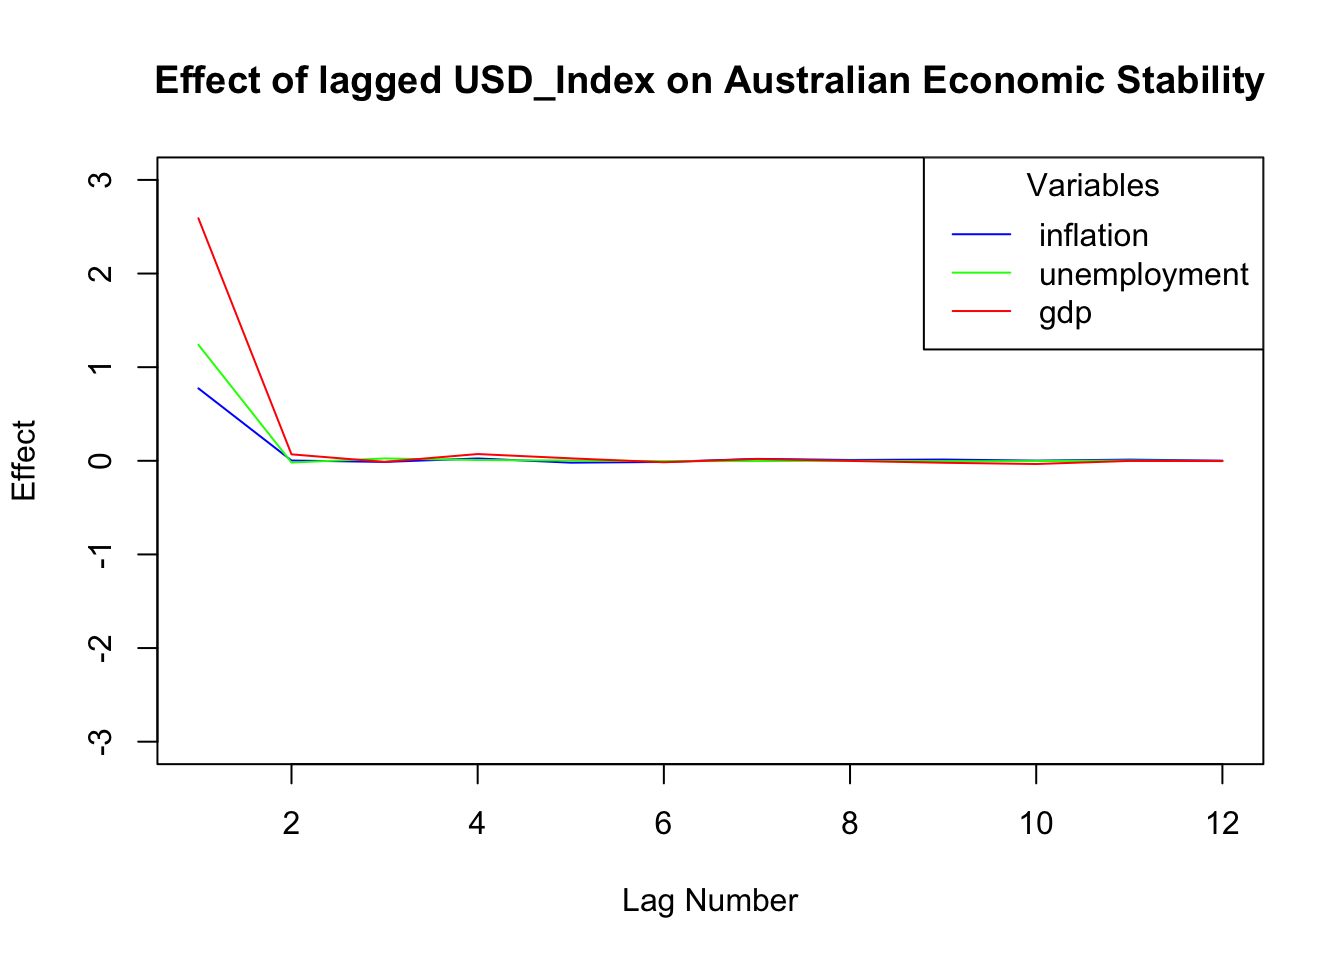
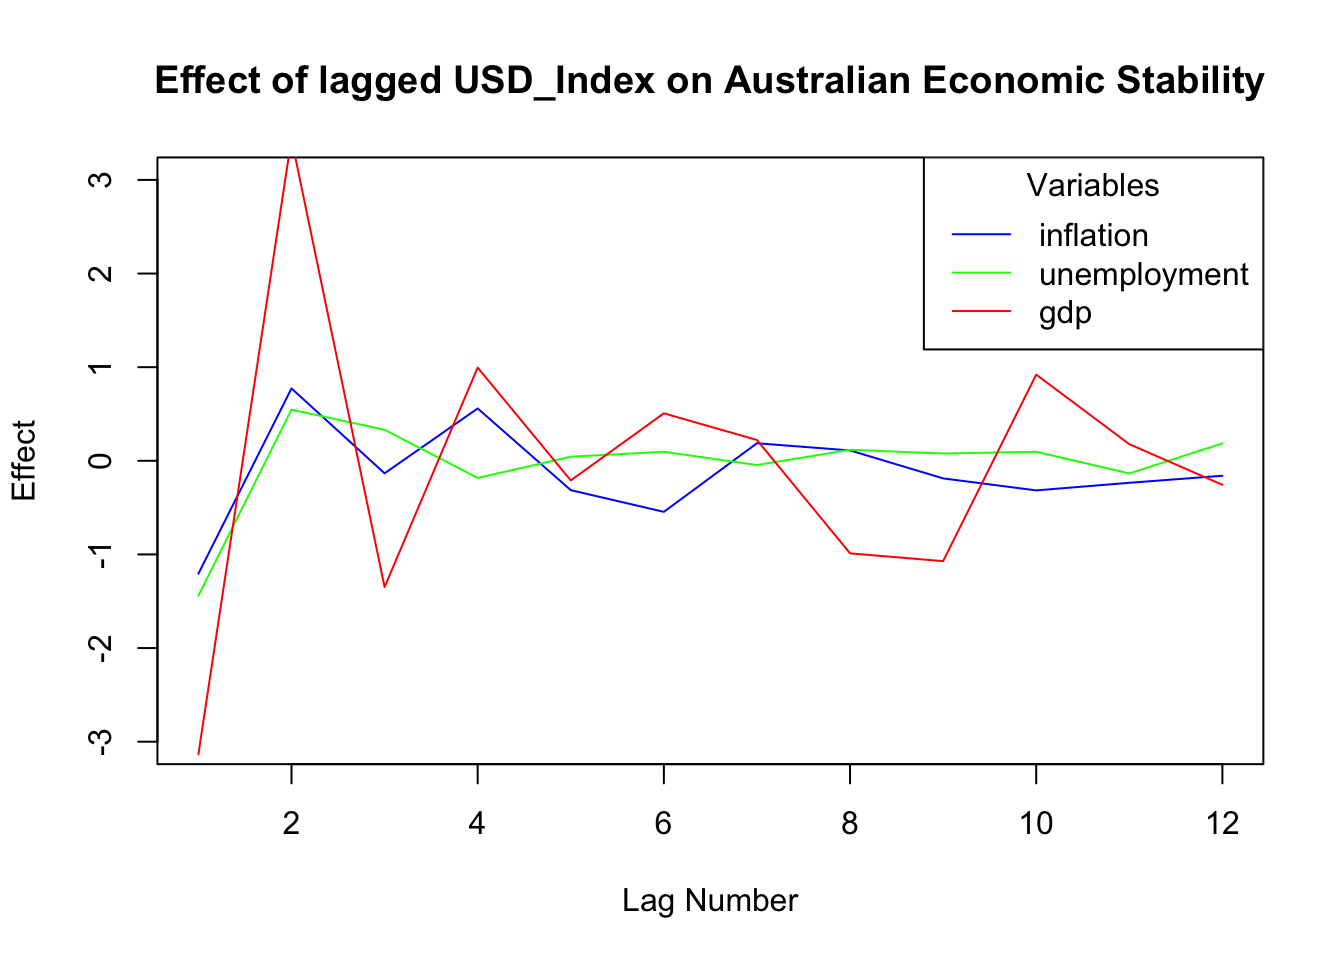
Further tweaking to RP2

diff --git a/docs/index.html b/docs/index.html
@@ -824,66 +824,66 @@ p(B^+; B_0 \mid Y; X) \propto p(Y \mid X, B^+, B_0) \times p(B^+; B_0)
 <pre><code>[1] "Extended Model Normalized B0 matrix"</code></pre>
 </div>
 <div class="cell-output cell-output-stdout">
-<pre><code>          [,1]         [,2]     [,3]      [,4]
-[1,] 21.931153  0.000000000 0.000000 0.0000000
-[2,]  0.789457  0.974975827 0.000000 0.0000000
-[3,]  3.809506 -0.005921796 3.100595 0.0000000
-[4,] -2.045686  0.179581024 1.358565 0.7634032</code></pre>
+<pre><code>           [,1]        [,2]       [,3]       [,4]
+[1,] 0.47116088 0.000000000 0.00000000 0.00000000
+[2,] 0.01574179 0.022948591 0.00000000 0.00000000
+[3,] 0.07882986 0.001615351 0.08040650 0.00000000
+[4,] 0.02414596 0.002995241 0.02535624 0.02168831</code></pre>
 </div>
 <div class="cell-output cell-output-stdout">
 <pre><code>[1] "Extended Model B plus matrix"</code></pre>
 </div>
 <div class="cell-output cell-output-stdout">
-<pre><code>           [,1]       [,2]        [,3]        [,4]        [,5]         [,6]
-[1,]  0.5545201 21.9783630  0.01707903 -0.05016267 -0.10330233 -0.046527088
-[2,] -0.3446697  0.7543187  0.94575120  0.03568751 -0.06939804  0.003062737
-[3,]  0.9069536  3.8426640 -0.11785600  3.02376498 -0.29390154 -0.057353740
-[4,] -0.5763527  1.9771160 -0.05903604 -1.35997960 -0.61618747  0.052636548
-             [,7]        [,8]        [,9]        [,10]        [,11]
-[1,] -0.069393106  0.08380805 0.004198651 -0.027607525 -0.008263343
-[2,] -0.126012520 -0.03850084 0.084910579 -0.011780891  0.038911260
-[3,]  0.008898949 -0.01556321 0.007115254  0.077637881  0.079546974
-[4,] -0.099823668 -0.02765822 0.116534811 -0.008743075  0.012178346
-            [,12]       [,13]       [,14]        [,15]        [,16]
-[1,]  0.004827759 -0.04458572 0.005687576  0.022759069 -0.008021147
-[2,] -0.006344754  0.04168518 0.024544344 -0.024786258 -0.001639141
-[3,] -0.020177153  0.01577883 0.026231469  0.008032398  0.004961702
-[4,]  0.016183484  0.04220338 0.055020268  0.006851352  0.013356313
-            [,17]        [,18]       [,19]        [,20]         [,21]
-[1,] -0.005143759 -0.018144693 0.024161714  0.012413957  0.0058345914
-[2,]  0.007560935 -0.019493838 0.045959203 -0.007599251 -0.0003216781
-[3,] -0.043826290  0.008824443 0.006673010  0.040764322 -0.0080366516
-[4,]  0.055697616  0.020131470 0.004639717 -0.041225529 -0.0294615225
-           [,22]       [,23]        [,24]         [,25]        [,26]
-[1,]  0.03246201 -0.02285225 -0.020756624  0.0008779472  0.017293008
-[2,] -0.01196913 -0.01877264  0.040221919  0.0232152318  0.020084013
-[3,] -0.01171264  0.02144913  0.000561424 -0.0088185535 -0.008506571
-[4,] -0.01189255 -0.01392041 -0.024262420 -0.0050447043  0.014843187
-            [,27]      [,28]        [,29]         [,30]        [,31]
-[1,]  0.007034166 0.01623304 -0.012405225  0.0166420388 -0.006023054
-[2,]  0.004244409 0.01381933  0.015026246  0.0085858574  0.012870967
-[3,] -0.011380486 0.02068925 -0.013648839  0.0022485993  0.006303930
-[4,] -0.008347431 0.03650869 -0.004553027 -0.0007793999 -0.004998909
-            [,32]        [,33]       [,34]         [,35]       [,36]
-[1,] -0.006278497 -0.014472010 -0.01979767 -0.0140785855 0.006575793
-[2,]  0.006892526 -0.002205889  0.01326175 -0.0065538326 0.012384537
-[3,] -0.002109528  0.010080802 -0.01314269  0.0004712669 0.003371347
-[4,] -0.011683591 -0.004151753 -0.01593710  0.0009774513 0.005546818
-            [,37]        [,38]        [,39]        [,40]        [,41]
-[1,] -0.010640432  0.002115297 -0.005430961 -0.011928735  0.003063116
-[2,]  0.003826363  0.001730049 -0.018560691 -0.002217776  0.016711863
-[3,]  0.003570637 -0.009585981 -0.009794870 -0.002914568 -0.008529754
-[4,]  0.001497777 -0.026218859  0.004650088 -0.013963490 -0.001732346
+<pre><code>            [,1]        [,2]          [,3]        [,4]         [,5]       [,6]
+[1,]  0.02993101 -0.51709872  0.0035242267 -0.01777697  0.003369530 0.02472018
+[2,]  0.08152989 -0.02767030 -0.0276502636  0.00213945  0.001085832 0.01773895
+[3,] -0.24059452 -0.11584843  0.0004403241 -0.08417919  0.006640352 0.04391691
+[4,] -0.04065098 -0.06797622  0.0052092967 -0.01546251 -0.014312649 0.07449954
+             [,7]         [,8]          [,9]        [,10]        [,11]
+[1,] -0.005171931  0.032967020 -0.0042845495  0.022722322 -0.003178189
+[2,]  0.001688235 -0.005014024 -0.0009441765 -0.003066378 -0.003138894
+[3,] -0.004783496 -0.011076996 -0.0040907342  0.026630709  0.001669194
+[4,] -0.009091591 -0.008617051 -0.0062867049 -0.029241618 -0.007853994
+            [,12]         [,13]        [,14]       [,15]        [,16]
+[1,] -0.019166849 -0.0010128965 -0.007328088 0.008573177 -0.007473385
+[2,] -0.003514012 -0.0060645412  0.012832421 0.018564516 -0.009804076
+[3,]  0.017190270 -0.0006799601 -0.014711803 0.004287073  0.001027880
+[4,] -0.007078462  0.0038270186  0.021598122 0.007433160 -0.008652524
+             [,17]        [,18]        [,19]        [,20]        [,21]
+[1,] -0.0002433968 -0.014271888 -0.003251740  0.006911807  0.005121854
+[2,]  0.0039526687 -0.007191327 -0.011057630  0.034050251  0.002410417
+[3,] -0.0038831983  0.003515834 -0.004854454 -0.004548894  0.006845292
+[4,]  0.0122597893 -0.004546830  0.006776504  0.012812042 -0.011521048
+           [,22]         [,23]         [,24]         [,25]        [,26]
+[1,] -0.01367546 -0.0006212526  0.0140330621 -5.745070e-03  0.004086471
+[2,] -0.01251036 -0.0001482462 -0.0097445035 -6.552212e-03  0.004304746
+[3,]  0.00775752 -0.0029900455  0.0058611382 -6.658892e-05 -0.003637109
+[4,]  0.01099498 -0.0052250566  0.0002735663 -2.392341e-03  0.004820835
+            [,27]        [,28]        [,29]        [,30]       [,31]
+[1,] -0.004675987 -0.010427475  0.001425891  0.023136698 0.006898026
+[2,] -0.006740824 -0.028483157 -0.001863058  0.002545347 0.008220426
+[3,]  0.004226517  0.010590628  0.002526219  0.009429241 0.005901230
+[4,] -0.007963609  0.001982895  0.002498745 -0.021434491 0.006557666
+            [,32]         [,33]        [,34]         [,35]        [,36]
+[1,] -0.004871714  0.0009954494 -0.008626341 -0.0047224357 -0.001375686
+[2,]  0.008543690  0.0017991706 -0.004308885  0.0007528655  0.003728337
+[3,] -0.006448096 -0.0036908462  0.006265440 -0.0061520444 -0.002039596
+[4,] -0.001888229  0.0065956885 -0.023239200  0.0044000878 -0.004018056
+            [,37]        [,38]        [,39]         [,40]         [,41]
+[1,]  0.001586582  0.004929974  0.003031877  0.0010824691 -0.0029427745
+[2,]  0.003661942 -0.007254260 -0.003447694 -0.0002147823 -0.0101791595
+[3,]  0.004150931  0.007754728 -0.000868067 -0.0010368604  0.0004137185
+[4,] -0.004028065  0.019964513 -0.005504786 -0.0135123170 -0.0033255839
             [,42]         [,43]        [,44]         [,45]        [,46]
-[1,] -0.006318228 -0.0005283151 -0.008291113 -0.0110705251  0.009499897
-[2,]  0.012510598 -0.0058421731  0.009215263  0.0044613867  0.001313200
-[3,]  0.009450766  0.0078062514  0.015419143  0.0051053250 -0.008523774
-[4,] -0.000973429 -0.0181017445 -0.001165227  0.0006648396 -0.002069643
-            [,47]        [,48]        [,49]
-[1,] -0.007180300  0.010665972  0.003295856
-[2,]  0.005034125 -0.008914702 -0.002081207
-[3,] -0.005390764 -0.005876193 -0.000125695
-[4,] -0.001475256 -0.007286445 -0.005061569</code></pre>
+[1,]  0.010257374  0.0007812825  0.006325435  7.596258e-05 -0.006399657
+[2,] -0.005388645 -0.0061739283  0.004631214  2.088500e-03 -0.003664360
+[3,] -0.010850104 -0.0025460506 -0.004669577 -3.189237e-03  0.014977055
+[4,]  0.003849225 -0.0025059215  0.009356329 -1.009395e-03 -0.005564648
+             [,47]         [,48]         [,49]
+[1,] -0.0003008917  6.588746e-07 -5.040423e-05
+[2,]  0.0083959316  5.440803e-03  3.968876e-03
+[3,]  0.0008334727 -1.702164e-03  1.057354e-05
+[4,]  0.0049989440  7.583513e-03  1.975056e-03</code></pre>
 </div>
 </div>
 <div class="cell">
@@ -891,11 +891,11 @@ p(B^+; B_0 \mid Y; X) \propto p(Y \mid X, B^+, B_0) \times p(B^+; B_0)
 <pre><code>[1] "Standard deviation of the extended model B0"</code></pre>
 </div>
 <div class="cell-output cell-output-stdout">
-<pre><code>         [,1]       [,2]      [,3]       [,4]
-[1,] 1.247818 0.00000000 0.0000000 0.00000000
-[2,] 2.765502 0.05700044 0.0000000 0.00000000
-[3,] 1.763129 0.07852690 0.1887961 0.00000000
-[4,] 1.792677 0.08151553 0.2796731 0.04836139</code></pre>
+<pre><code>           [,1]        [,2]        [,3]        [,4]
+[1,] 0.02749232 0.000000000 0.000000000 0.000000000
+[2,] 0.07195698 0.001548985 0.000000000 0.000000000
+[3,] 0.03988998 0.002067850 0.004672554 0.000000000
+[4,] 0.03934390 0.002122450 0.006610653 0.001266446</code></pre>
 </div>
 </div>
 <div class="cell">
@@ -903,46 +903,51 @@ p(B^+; B_0 \mid Y; X) \propto p(Y \mid X, B^+, B_0) \times p(B^+; B_0)
 <pre><code>[1] "Standard deviation of the extended model Bp"</code></pre>
 </div>
 <div class="cell-output cell-output-stdout">
-<pre><code>          [,1]      [,2]       [,3]       [,4]       [,5]       [,6]       [,7]
-[1,] 0.5873525 21.768951 0.06209645 0.06075665 0.05366163 0.04904775 0.04114750
-[2,] 0.5601012  2.777724 0.96437709 0.07027785 0.04358044 0.04893598 0.05558376
-[3,] 0.8711106  2.750376 0.18876485 3.19617902 0.23822369 0.04951997 0.04907090
-[4,] 0.6185364  2.327759 0.09977221 1.36746568 0.63933671 0.04967937 0.06554354
-           [,8]       [,9]      [,10]      [,11]      [,12]      [,13]
-[1,] 0.04494591 0.03974562 0.03367881 0.03137075 0.03240493 0.02907629
-[2,] 0.04603070 0.04560414 0.03288826 0.04124731 0.03161619 0.06590405
-[3,] 0.05585879 0.05244316 0.03299840 0.03226080 0.04016788 0.04153011
-[4,] 0.04893657 0.06725406 0.03403628 0.03030083 0.03436687 0.05218563
-          [,14]      [,15]      [,16]      [,17]      [,18]      [,19]
-[1,] 0.02541192 0.02346976 0.02419798 0.02424359 0.01994175 0.01870493
-[2,] 0.02479164 0.03454116 0.02523163 0.03031547 0.02002876 0.01961073
-[3,] 0.02490692 0.02309536 0.02681124 0.02504981 0.02008444 0.01831029
-[4,] 0.02483738 0.02307880 0.02499978 0.03688717 0.02010049 0.01869603
-          [,20]      [,21]      [,22]      [,23]      [,24]      [,25]
-[1,] 0.01952701 0.01875238 0.01645783 0.01618349 0.01634542 0.01607783
-[2,] 0.01974740 0.02363224 0.01684894 0.01538344 0.01694822 0.01942919
-[3,] 0.02062401 0.01864229 0.01650847 0.01582302 0.01678463 0.01611471
-[4,] 0.02006227 0.02440536 0.01652218 0.01560948 0.01657481 0.01589651
-          [,26]      [,27]      [,28]      [,29]      [,30]      [,31]
-[1,] 0.01422636 0.01352839 0.01396404 0.01463207 0.01242335 0.01185311
-[2,] 0.01429681 0.01367499 0.01526117 0.01364797 0.01243381 0.01199253
-[3,] 0.01429100 0.01372885 0.01408880 0.01393546 0.01236924 0.01187867
-[4,] 0.01437683 0.01391553 0.01402487 0.01342097 0.01273763 0.01201982
-          [,32]      [,33]      [,34]      [,35]      [,36]      [,37]
-[1,] 0.01236317 0.01273387 0.01130843 0.01047307 0.01098890 0.01107968
-[2,] 0.01297926 0.01203530 0.01118281 0.01094678 0.01115606 0.01083649
-[3,] 0.01243996 0.01222134 0.01124934 0.01121707 0.01083506 0.01071766
-[4,] 0.01249972 0.01212791 0.01104356 0.01048796 0.01102904 0.01109614
-           [,38]      [,39]       [,40]       [,41]       [,42]       [,43]
-[1,] 0.009883921 0.01001850 0.009834915 0.009608150 0.009097004 0.009283686
-[2,] 0.009961143 0.01009844 0.010033441 0.009755788 0.009176971 0.009579818
-[3,] 0.009899925 0.01061703 0.010002333 0.009847171 0.009095368 0.010107841
-[4,] 0.010039042 0.00958461 0.009823974 0.009536146 0.009084603 0.008764891
-           [,44]       [,45]       [,46]       [,47]       [,48]       [,49]
-[1,] 0.009037238 0.009640977 0.008327001 0.008606588 0.008348103 0.009042438
-[2,] 0.008988614 0.008980078 0.008162211 0.008866755 0.008209095 0.008820060
-[3,] 0.009109566 0.009434646 0.008266602 0.008681388 0.008236743 0.008409362
-[4,] 0.009032642 0.008598059 0.008197906 0.008077132 0.008499641 0.008240017</code></pre>
+<pre><code>          [,1]       [,2]        [,3]        [,4]        [,5]       [,6]
+[1,] 0.1396670 0.53963128 0.001979715 0.007077575 0.003099159 0.07708107
+[2,] 0.1100985 0.08947239 0.025617120 0.006587309 0.002237282 0.03713126
+[3,] 0.1357829 0.07351548 0.004606993 0.089855790 0.007614231 0.03596329
+[4,] 0.0687855 0.05279851 0.005179931 0.013782799 0.015294169 0.03467953
+            [,7]        [,8]        [,9]      [,10]       [,11]      [,12]
+[1,] 0.002929723 0.017697510 0.003163380 0.02703789 0.004917206 0.01904269
+[2,] 0.002915715 0.011195189 0.002382103 0.03125796 0.002894220 0.01032244
+[3,] 0.004276109 0.009397394 0.003864497 0.02688458 0.002956072 0.01872885
+[4,] 0.005875940 0.014232693 0.002543831 0.02740012 0.005949722 0.01015067
+           [,13]      [,14]       [,15]       [,16]       [,17]      [,18]
+[1,] 0.002299025 0.02055791 0.006428516 0.008437523 0.002726494 0.01808068
+[2,] 0.006198971 0.02257938 0.013649316 0.010469633 0.003243891 0.01724862
+[3,] 0.003055068 0.02186012 0.004902952 0.008479131 0.002556275 0.02005348
+[4,] 0.002966851 0.02088280 0.005003885 0.008552210 0.012688135 0.01862013
+           [,19]       [,20]       [,21]      [,22]       [,23]       [,24]
+[1,] 0.004694665 0.009368625 0.002424975 0.01474160 0.003113829 0.008072042
+[2,] 0.013154312 0.016652025 0.002837566 0.01435169 0.003206056 0.007995150
+[3,] 0.006109056 0.010754798 0.005463590 0.01654676 0.003604216 0.011846330
+[4,] 0.004527420 0.008218895 0.013622791 0.01521331 0.004525652 0.011162883
+           [,25]      [,26]       [,27]       [,28]       [,29]      [,30]
+[1,] 0.002855707 0.01417737 0.003311462 0.007669698 0.002543361 0.01428071
+[2,] 0.005819144 0.01300345 0.003276311 0.021331706 0.003272470 0.01354615
+[3,] 0.002743983 0.01298809 0.004000791 0.007446775 0.002642455 0.01119414
+[4,] 0.002714263 0.01265679 0.005611831 0.007651389 0.002510198 0.01172941
+           [,31]       [,32]       [,33]      [,34]       [,35]       [,36]
+[1,] 0.002745245 0.007004431 0.002252008 0.01248845 0.003408493 0.007212249
+[2,] 0.005154888 0.007673169 0.002233383 0.01038484 0.005331085 0.008234927
+[3,] 0.004546203 0.008962613 0.002656820 0.01046033 0.007026674 0.010048147
+[4,] 0.005074575 0.008798866 0.005742959 0.01056425 0.002603200 0.010280308
+           [,37]       [,38]       [,39]       [,40]       [,41]       [,42]
+[1,] 0.003352131 0.009503378 0.003017817 0.006693769 0.002049502 0.008498628
+[2,] 0.002283652 0.009515972 0.002828332 0.007395096 0.005544274 0.008627392
+[3,] 0.003712587 0.009285870 0.002459806 0.008886394 0.002610543 0.008843272
+[4,] 0.005517821 0.012643375 0.002632823 0.008177414 0.002870340 0.009606351
+           [,43]       [,44]       [,45]       [,46]       [,47]       [,48]
+[1,] 0.003013918 0.006458788 0.002734710 0.007728983 0.002269055 0.004646627
+[2,] 0.002833998 0.010138733 0.002128515 0.007898397 0.003637408 0.007562495
+[3,] 0.003038310 0.006145535 0.006020539 0.008649083 0.001759234 0.005399511
+[4,] 0.003195062 0.007882034 0.002056311 0.007725761 0.002814666 0.009522645
+           [,49]
+[1,] 0.001501832
+[2,] 0.004036546
+[3,] 0.001625681
+[4,] 0.001800373</code></pre>
 </div>
 </div>
 <div class="cell">
@@ -975,17 +980,17 @@ p(B^+; B_0 \mid Y; X) \propto p(Y \mid X, B^+, B_0) \times p(B^+; B_0)
 <tr class="odd">
 <td style="text-align: center;">Inflation</td>
 <td style="text-align: center;">-1.2314784</td>
-<td style="text-align: center;">0.8097196</td>
+<td style="text-align: center;">0.6859591</td>
 </tr>
 <tr class="even">
 <td style="text-align: center;">Unemployment</td>
 <td style="text-align: center;">-0.3026575</td>
-<td style="text-align: center;">1.2286370</td>
+<td style="text-align: center;">0.9803916</td>
 </tr>
 <tr class="odd">
 <td style="text-align: center;">GDP Growth</td>
 <td style="text-align: center;">-1.1462863</td>
-<td style="text-align: center;">-2.6796926</td>
+<td style="text-align: center;">1.1133169</td>
 </tr>
 </tbody>
 </table>
